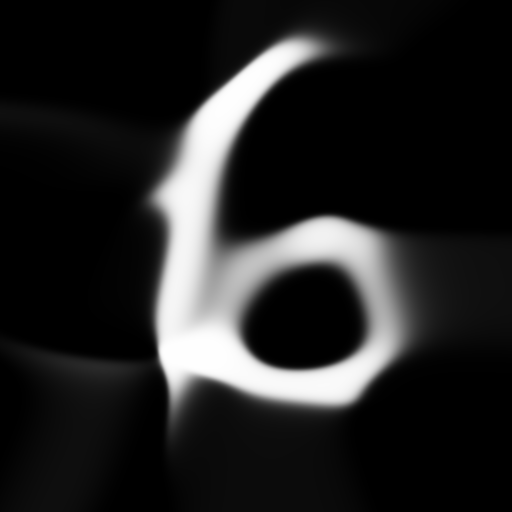
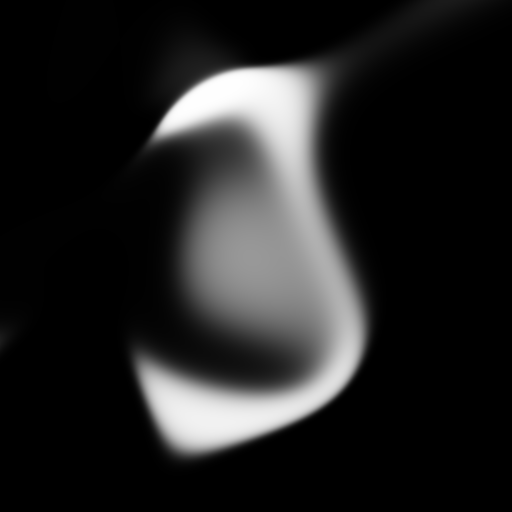
feat: preview transition slider (session 11)

diff --git a/session_11/img2nn.c b/session_11/img2nn.c
@@ -121,7 +121,7 @@ char *p2m_shift_args(int *argc, char ***argv)
 }
 
 // neural network architecture
-size_t arch[] = {3, 7, 5, 1};
+size_t arch[] = {3, 7, 7, 1};
 
 int main(int argc, char **argv)
 {
@@ -212,23 +212,47 @@ int main(int argc, char **argv)
 
     NNF_Cost_Plot plot = {0};
 
-    Image preview_image = GenImageColor(img1_width, img1_height, BLACK);
-    Texture2D preview_texture = LoadTextureFromImage(preview_image);
+    size_t preview_width = 28;
+    size_t preview_height  = 28;
 
-    Image original_image = GenImageColor(img1_width, img1_height, BLACK);
-    // draw original image
+    Image preview_image1 = GenImageColor(preview_width, preview_height, BLACK);
+    Texture2D preview_texture1 = LoadTextureFromImage(preview_image1);
+
+    Image preview_image2 = GenImageColor(preview_width, preview_height, BLACK);
+    Texture2D preview_texture2 = LoadTextureFromImage(preview_image2);
+
+    Image preview_image3 = GenImageColor(preview_width, preview_height, BLACK);
+    Texture2D preview_texture3 = LoadTextureFromImage(preview_image3);
+
+    // Draw original image 1
+    Image original_image1 = GenImageColor(img1_width, img1_height, BLACK);
     for (int y = 0; y < img1_height; ++y) {
         for (int x = 0; x < img1_width; ++x) {
             uint8_t pixel = img1_data[y*img1_width + x]; 
             ImageDrawPixel(
-                &original_image,
+                &original_image1,
                 x,
                 y,
                 CLITERAL(Color){pixel, pixel, pixel, 255}
             );
         }
     }
-    Texture2D original_texture = LoadTextureFromImage(original_image);
+    Texture2D original_texture1 = LoadTextureFromImage(original_image1);
+
+    // Draw original image 2
+    Image original_image2 = GenImageColor(img2_width, img2_height, BLACK);
+    for (int y = 0; y < img2_height; ++y) {
+        for (int x = 0; x < img2_width; ++x) {
+            uint8_t pixel = img2_data[y*img2_width + x]; 
+            ImageDrawPixel(
+                &original_image2,
+                x,
+                y,
+                CLITERAL(Color){pixel, pixel, pixel, 255}
+            );
+        }
+    }
+    Texture2D original_texture2 = LoadTextureFromImage(original_image2);
 
     size_t max_epoch = 50*1000;
     size_t epoch = 0;
@@ -239,6 +263,8 @@ int main(int argc, char **argv)
     float cost = 0.f;
     float rate = 0.5f;
     bool isRunning = false;
+    float scroll = 0.5f;
+    bool scroll_dragging = false;
 
     while (!WindowShouldClose()) {
         if (IsKeyPressed(KEY_SPACE)) {
@@ -311,29 +337,117 @@ int main(int argc, char **argv)
             nf_nn_render_raylib(nn, rx, ry, rw, rh);
 
             rx += rw;
-            float scale = rh*0.02f;
+            float scale = rh*0.012f;
 
-            // Draw original image 
-            DrawTextureEx(original_texture,CLITERAL(Vector2){rx, ry - 25}, 0, scale, WHITE);
+            // Draw original image 1 
+            DrawTextureEx(original_texture1,CLITERAL(Vector2){rx, ry-50}, 0, scale, WHITE);
+            // Draw original image 2 
+            DrawTextureEx(original_texture2,CLITERAL(Vector2){rx+img1_width*scale, ry-50}, 0, scale, WHITE);
 
-            // Draw preview image
-            for (int y = 0; y < img1_height; ++y) {
-                for (int x = 0; x < img1_width; ++x) {
-                    NF_MAT_AT(NF_NN_INPUT(nn), 0, 0) = (float)x/(img1_width - 1);;
-                    NF_MAT_AT(NF_NN_INPUT(nn), 0, 1) = (float)y/(img1_height - 1);
-                    NF_MAT_AT(NF_NN_INPUT(nn), 0, 2) = 1.f;
+            // Draw preview image 1
+            for (size_t y = 0; y < preview_height; ++y) {
+                for (size_t x = 0; x < preview_width; ++x) {
+                    NF_MAT_AT(NF_NN_INPUT(nn), 0, 0) = (float)x/(preview_width - 1);;
+                    NF_MAT_AT(NF_NN_INPUT(nn), 0, 1) = (float)y/(preview_height - 1);
+                    NF_MAT_AT(NF_NN_INPUT(nn), 0, 2) = 0.f;
                     nf_nn_forward(nn);
                     uint8_t pixel = NF_MAT_AT(NF_NN_OUTPUT(nn), 0, 0)*255.f;
                     ImageDrawPixel(
-                        &preview_image,
+                        &preview_image1,
                         x,
                         y,
                         CLITERAL(Color){pixel, pixel, pixel, 255}
                     );
                 }
             }
-            UpdateTexture(preview_texture, preview_image.data);
-            DrawTextureEx(preview_texture,CLITERAL(Vector2){rx, ry + img1_height*scale + 25}, 0, scale, WHITE);
+            UpdateTexture(preview_texture1, preview_image1.data);
+            DrawTextureEx(
+                preview_texture1,
+                CLITERAL(Vector2){rx, ry + preview_height*scale},
+                0,
+                scale,
+                WHITE
+            );
+
+            // Draw preview image 2
+            for (size_t y = 0; y < preview_height; ++y) {
+                for (size_t x = 0; x < preview_width; ++x) {
+                    NF_MAT_AT(NF_NN_INPUT(nn), 0, 0) = (float)x/(preview_width - 1);;
+                    NF_MAT_AT(NF_NN_INPUT(nn), 0, 1) = (float)y/(preview_height - 1);
+                    NF_MAT_AT(NF_NN_INPUT(nn), 0, 2) = 1.f;
+                    nf_nn_forward(nn);
+                    uint8_t pixel = NF_MAT_AT(NF_NN_OUTPUT(nn), 0, 0)*255.f;
+                    ImageDrawPixel(
+                        &preview_image2,
+                        x,
+                        y,
+                        CLITERAL(Color){pixel, pixel, pixel, 255}
+                    );
+                }
+            }
+            UpdateTexture(preview_texture2, preview_image2.data);
+            DrawTextureEx(
+                preview_texture2,
+                CLITERAL(Vector2){rx + preview_width*scale, ry + preview_height*scale},
+                0,
+                scale,
+                WHITE
+            );
+
+            // Draw preview image 3
+            for (size_t y = 0; y < preview_height; ++y) {
+                for (size_t x = 0; x < preview_width; ++x) {
+                    NF_MAT_AT(NF_NN_INPUT(nn), 0, 0) = (float)x/(preview_width - 1);;
+                    NF_MAT_AT(NF_NN_INPUT(nn), 0, 1) = (float)y/(preview_height - 1);
+                    NF_MAT_AT(NF_NN_INPUT(nn), 0, 2) = scroll;
+                    nf_nn_forward(nn);
+                    uint8_t pixel = NF_MAT_AT(NF_NN_OUTPUT(nn), 0, 0)*255.f;
+                    ImageDrawPixel(
+                        &preview_image3,
+                        x,
+                        y,
+                        CLITERAL(Color){pixel, pixel, pixel, 255}
+                    );
+                }
+            }
+            UpdateTexture(preview_texture3, preview_image3.data);
+            DrawTextureEx(
+                preview_texture3,
+                CLITERAL(Vector2){rx + preview_width*scale*0.5, ry + preview_height*scale*2},
+                0,
+                scale,
+                WHITE
+            );
+
+            {
+                float pad = rh*0.04f;
+                Vector2 position = { rx, ry + preview_height*scale*3 + pad, };
+                Vector2 size = { preview_width*scale*2, rh*0.008f, };
+                float knob_radious = rh*0.02f;
+                DrawRectangleV(position, size, RAYWHITE);
+                Vector2 knob_position = {position.x + size.x*scroll, position.y + size.y*0.5f}; 
+                DrawCircleV(knob_position, knob_radious, RED);
+                sprintf(buffer, "%f", scroll);
+                DrawText(buffer, position.x + size.x*3/8, position.y + 50, rh*0.04f, RAYWHITE);
+
+                if (scroll_dragging) {
+                    float x = GetMousePosition().x;
+                    if (x < position.x) { x = position.x; }
+                    if (x > position.x + size.x) { x = position.x + size.x; }
+                    scroll = (x - position.x)/size.x;
+                }
+
+                if (IsMouseButtonPressed(MOUSE_BUTTON_LEFT)) {
+                    Vector2 mouse_position = GetMousePosition();
+                    if (CheckCollisionPointCircle(mouse_position, knob_position, knob_radious)) {
+                        scroll_dragging = true;
+                    }
+                }
+
+                if (IsMouseButtonReleased(MOUSE_BUTTON_LEFT)) {
+                    scroll_dragging = false;
+                }
+            }
         }
         EndDrawing();
     }
